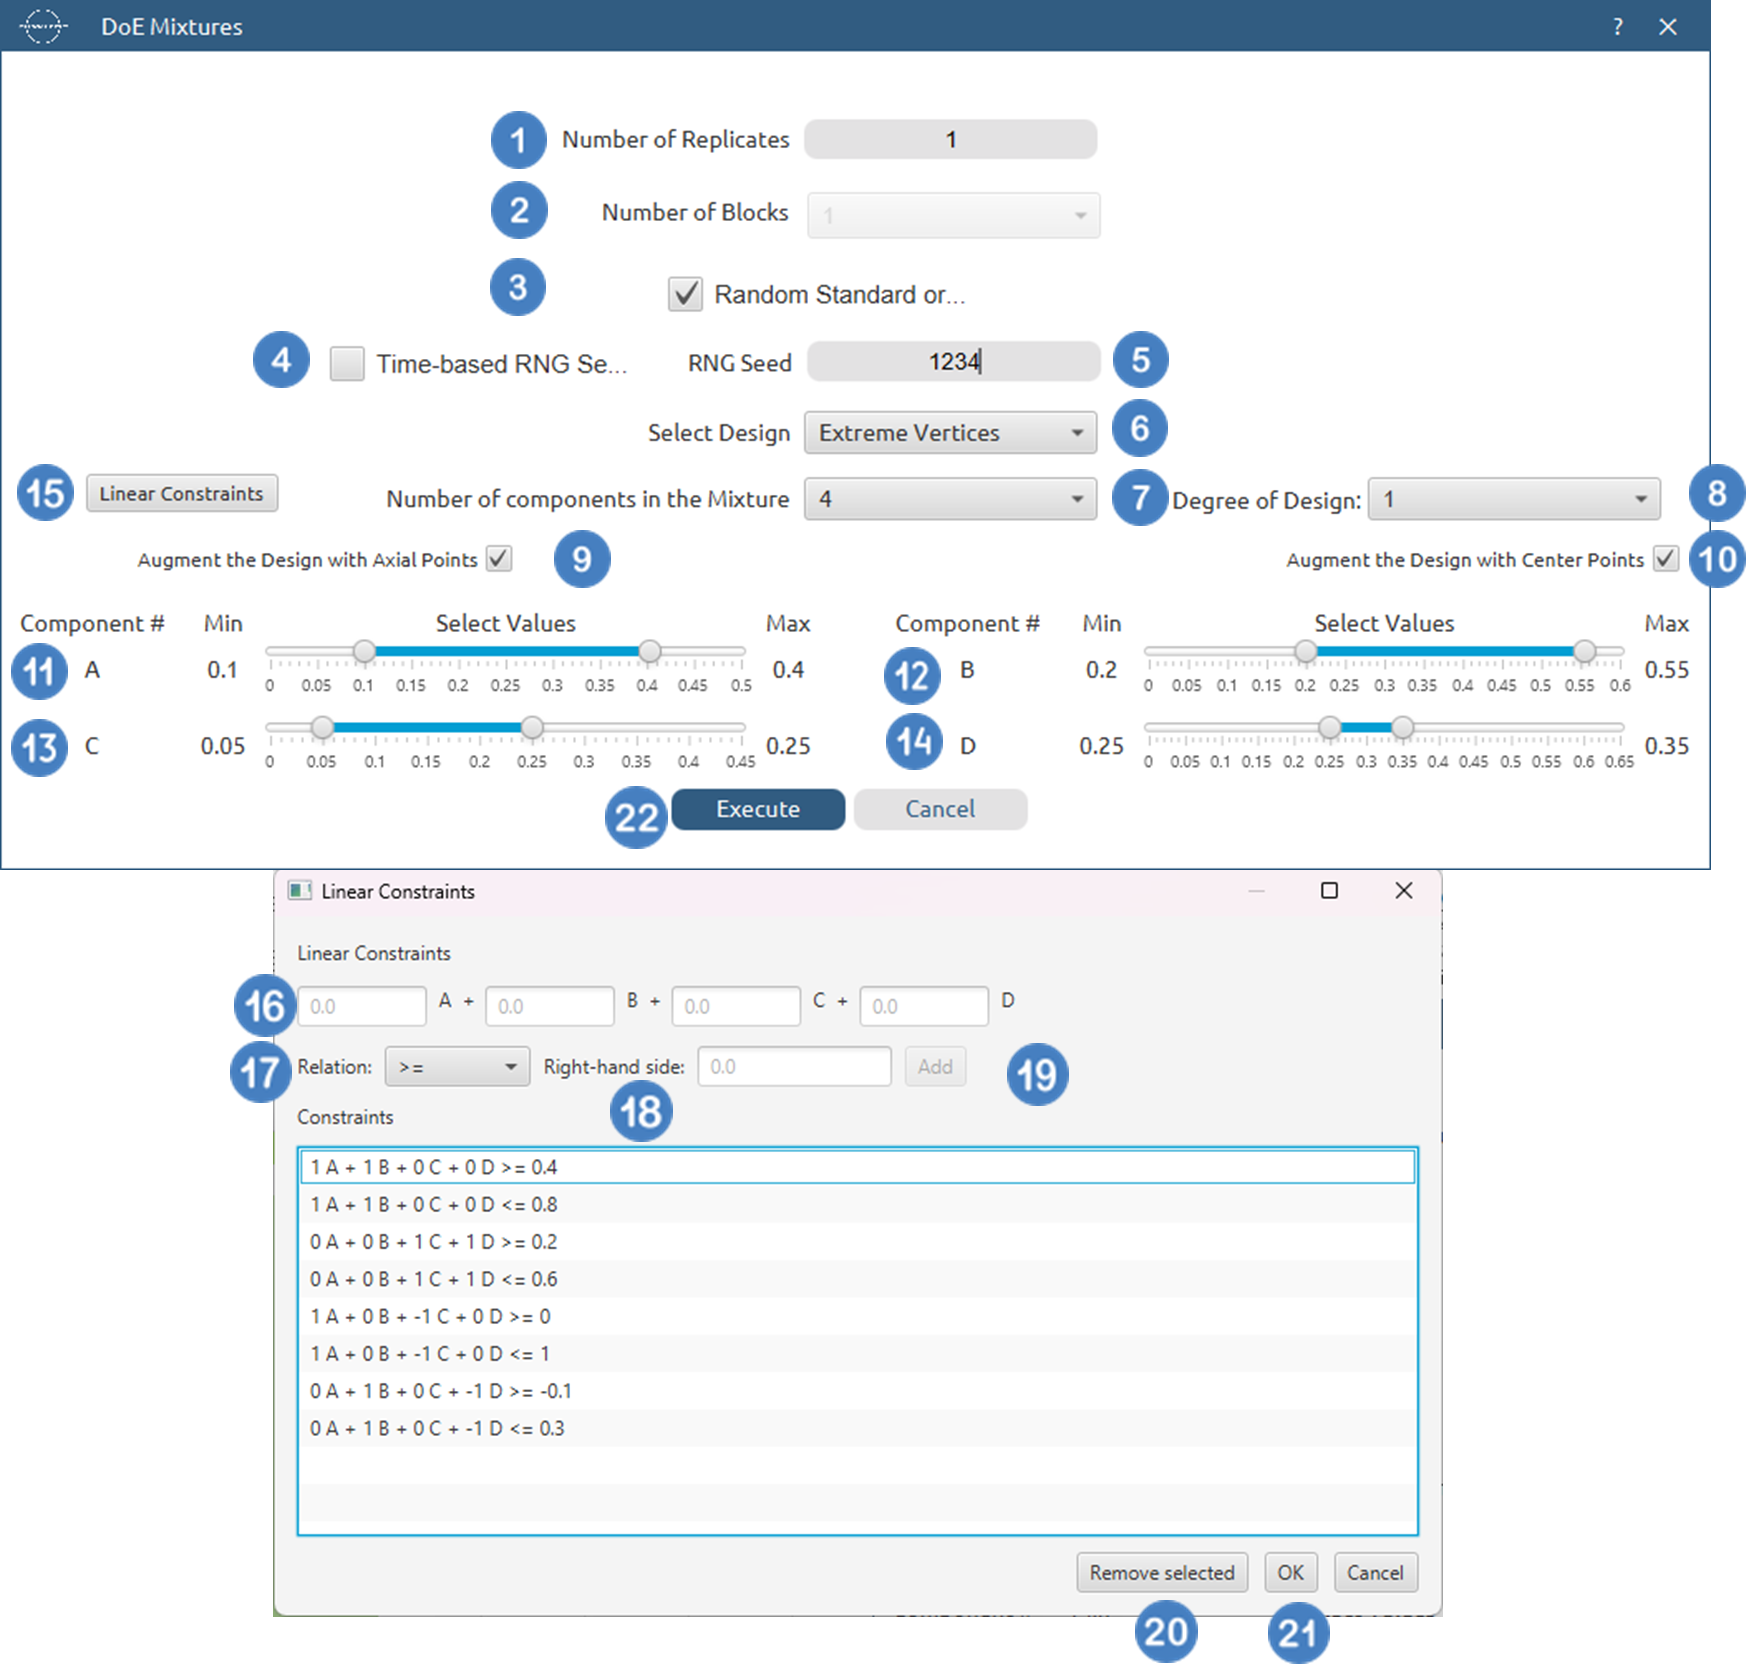
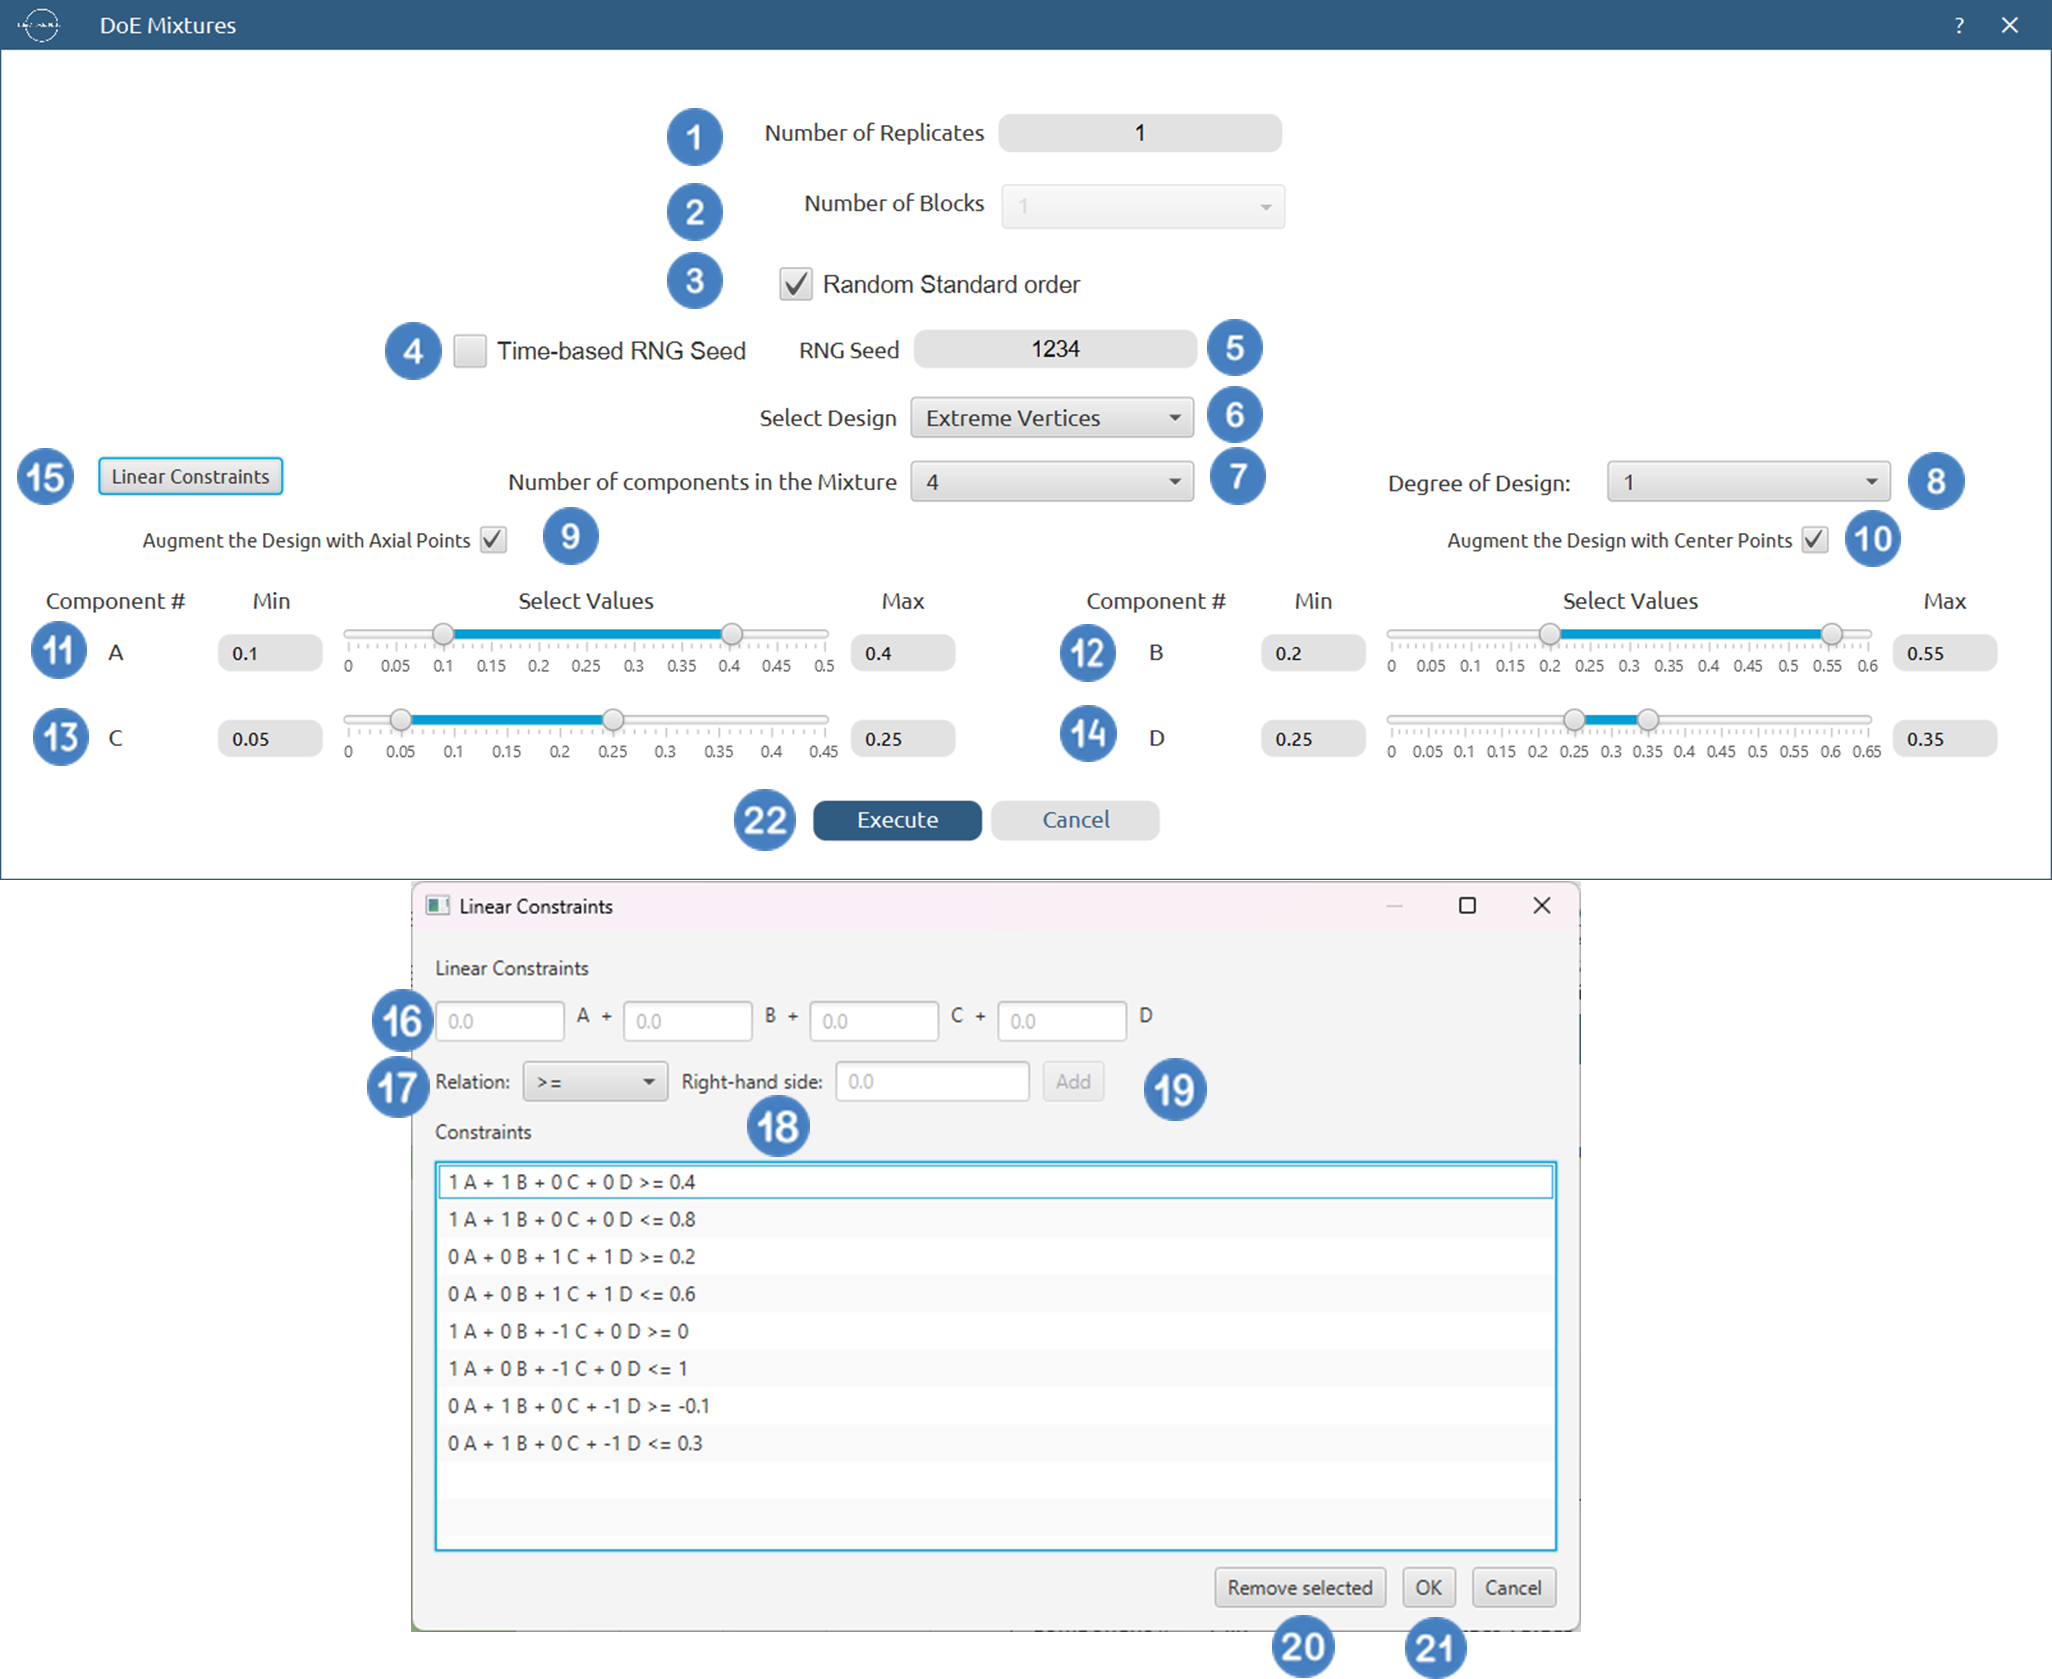
Minor adjustments

Changed region(s): [[0.0, 0.0, 1.0, 1.0], [0.0, 0.0, 0.1546, 0.0312], [0.0, 0.5, 0.0309, 0.5312]]

diff --git a/docs/DoE/66Mixtures.md b/docs/DoE/66Mixtures.md
@@ -84,7 +84,7 @@ No input data is required in the input datasheet.
 1.   If Simplex Lattice design method is selected, then select the Degree of Lattice from the drop-down list [8].
 1.   Select/tick to `Augment the Design with Axial Points` [9].
 1.   If `Simplex Lattice` design method is selected, then select/tick to `Augment the Design with Center Points` [10].
-1.   Drag the horizonal value bars for each component [11],[12],[13] and [14] to specify the min and max (composition) value for each component.
+1.   Drag the horizonal value bars for each component to specify the min and max (composition) value for each component or enter them manually using the min and max text fields (which allow precision up to 1e-5) [11], [12],[13] and [14].
 1.   Click on the `Execute` button [15] to perform Mixtures design method.
 
 <div style="text-align: center;">
@@ -162,7 +162,7 @@ No input data is required in the input datasheet.
 1.   Select the `Degree of Design` from the drop-down list [8].
 1.   Select/tick to `Augment the Design with Axial Points` [9].
 1.   Select/tick to `Augment the Design with Center Points` [10].
-1.   Drag the horizonal value bars for each component [11],[12],[13] and [14] to specify the min and max (composition) value for each component.
+1.   Drag the horizonal value bars for each component to specify the min and max (composition) value for each component or enter them manually using the min and max text fields (which allow precision up to 1e-5) [11], [12],[13] and [14].
 1.	 Optionally specify `Linear Constraints`[15] by inputting the coefficient[16] for each component, the relation[17] of the constraint and the right-hand side coefficient[18] and then clicking `Add`[19]. If a constraint needs to be removed select it and use the `Remove Selected`[20] button. After inserting all constraints click on `OK` [21]
 1.   Click on the `Execute` button [22] to perform Extreme Vertices design method.
 
